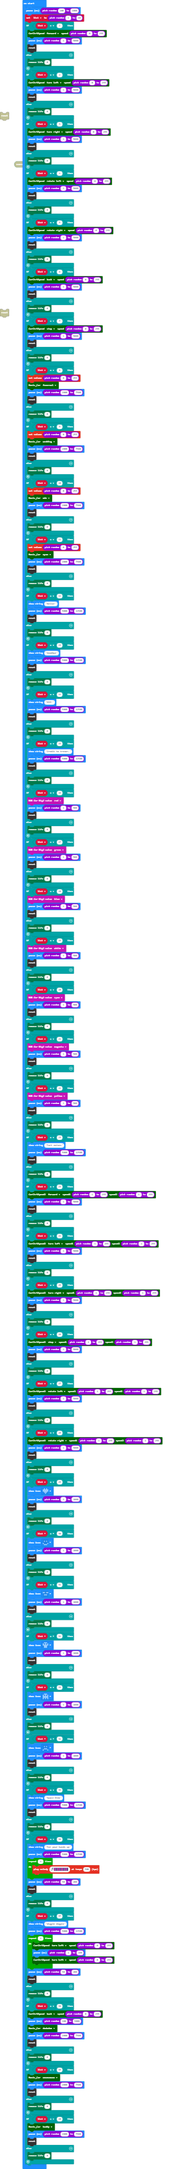
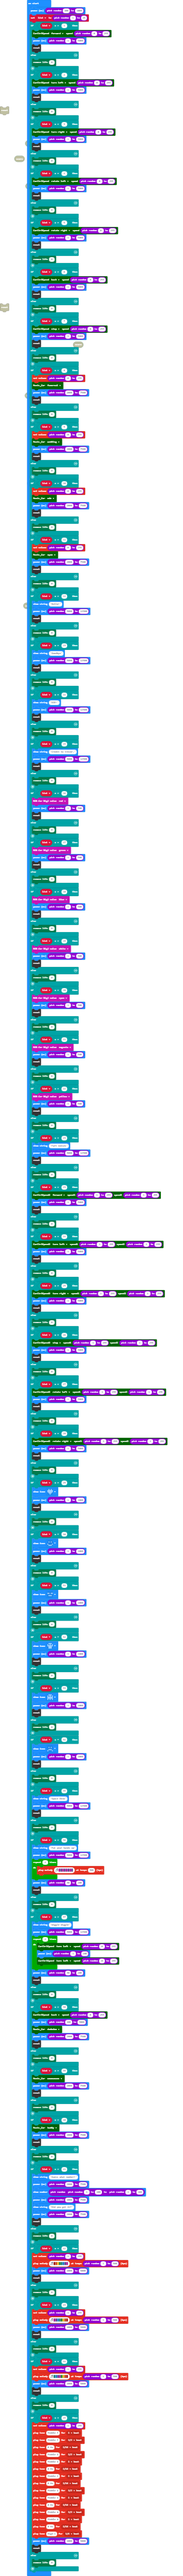
Update main.blocks, main.ts

diff --git a/main.ts b/main.ts
@@ -1,5 +1,5 @@
 basic.pause(randint(100, 1000))
-let list = randint(1, 40)
+let list = randint(1, 45)
 if (list == 1) {
     mbit_Robot.CarCtrlSpeed(mbit_Robot.CarState.Car_Run, randint(0, 255))
     basic.pause(randint(1, 5000))
@@ -299,6 +299,63 @@ if (list == 39) {
 if (list == 40) {
     mbit_Robot.Music_Car(mbit_Robot.enMusic.baddy)
     basic.pause(randint(2000, 7500))
+    control.reset()
+} else {
+    game.removeLife(0)
+}
+if (list == 41) {
+    basic.showString("Guess what number!")
+    basic.pause(randint(2000, 7500))
+    basic.showNumber(randint(randint(1, 100), randint(1, 100)))
+    basic.pause(randint(1000, 7500))
+    basic.showString("Did you get it?")
+    basic.pause(randint(2000, 7500))
+    control.reset()
+} else {
+    game.removeLife(0)
+}
+if (list == 42) {
+    music.setVolume(randint(1, 255))
+    music.playMelody("C5 B A G F E D C ", randint(1, 500))
+    basic.pause(randint(1000, 5000))
+    control.reset()
+} else {
+    game.removeLife(0)
+}
+if (list == 43) {
+    music.setVolume(randint(1, 255))
+    music.playMelody("C D E F G A B C5 ", randint(1, 500))
+    basic.pause(randint(1000, 5000))
+    control.reset()
+} else {
+    game.removeLife(0)
+}
+if (list == 44) {
+    music.setVolume(randint(1, 255))
+    music.playMelody("F E D C G A B C5 ", randint(1, 500))
+    basic.pause(randint(1000, 5000))
+    control.reset()
+} else {
+    game.removeLife(0)
+}
+if (list == 45) {
+    music.setVolume(randint(1, 255))
+    music.playTone(349, music.beat(BeatFraction.Whole))
+    music.playTone(349, music.beat(BeatFraction.Half))
+    music.playTone(0, music.beat(BeatFraction.Sixteenth))
+    music.playTone(392, music.beat(BeatFraction.Half))
+    music.playTone(392, music.beat(BeatFraction.Whole))
+    music.playTone(0, music.beat(BeatFraction.Sixteenth))
+    music.playTone(262, music.beat(BeatFraction.Whole))
+    music.playTone(0, music.beat(BeatFraction.Sixteenth))
+    music.playTone(392, music.beat(BeatFraction.Half))
+    music.playTone(392, music.beat(BeatFraction.Whole))
+    music.playTone(0, music.beat(BeatFraction.Sixteenth))
+    music.playTone(440, music.beat(BeatFraction.Half))
+    music.playTone(440, music.beat(BeatFraction.Whole))
+    music.playTone(0, music.beat(BeatFraction.Sixteenth))
+    music.playTone(523, music.beat(BeatFraction.Quarter))
+    basic.pause(randint(1000, 5000))
     control.reset()
 } else {
     game.removeLife(0)
